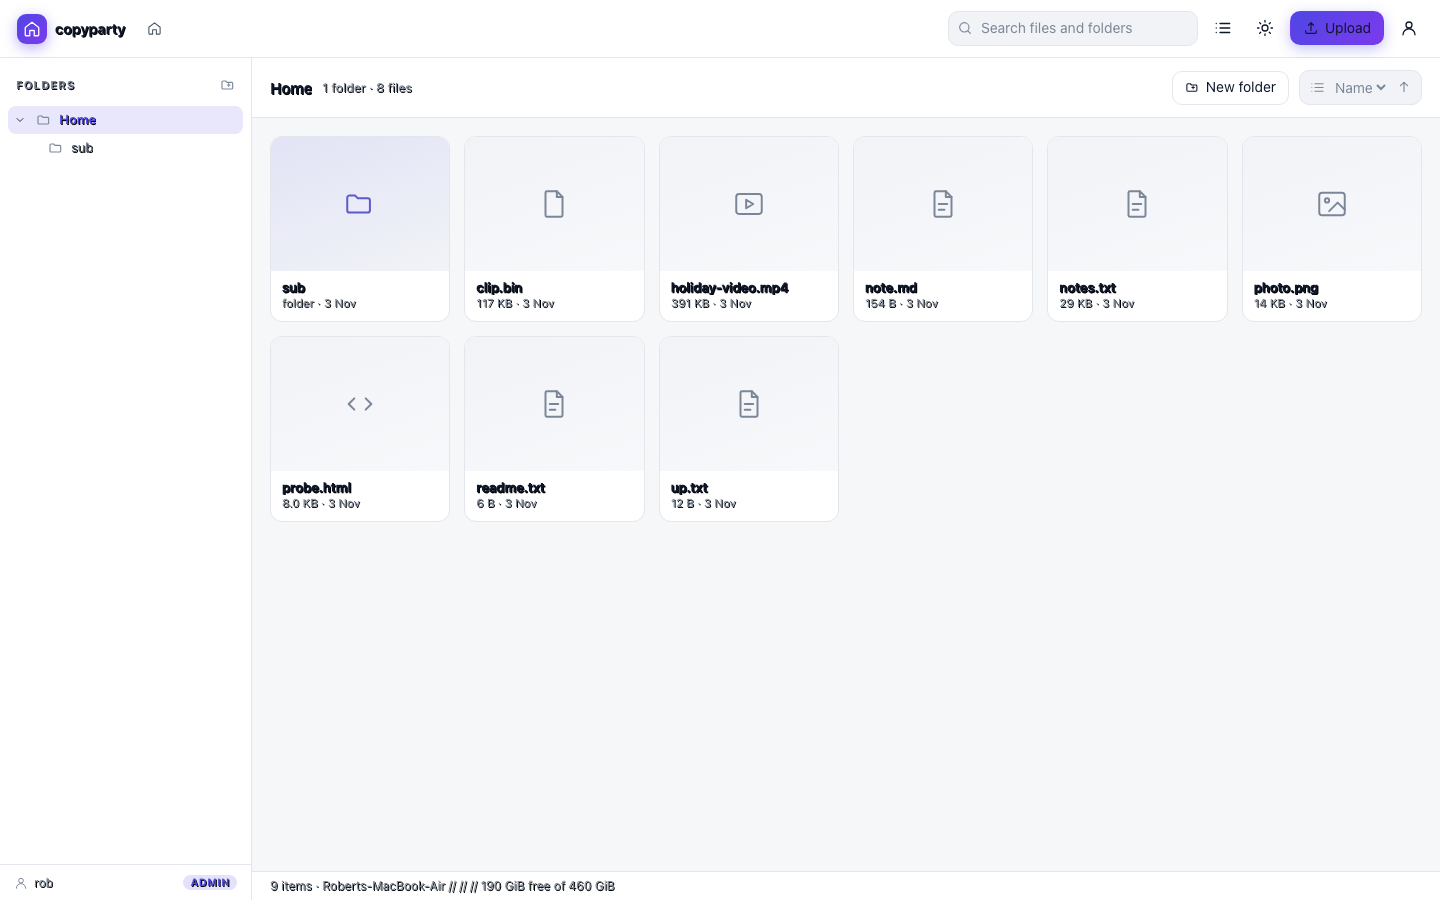
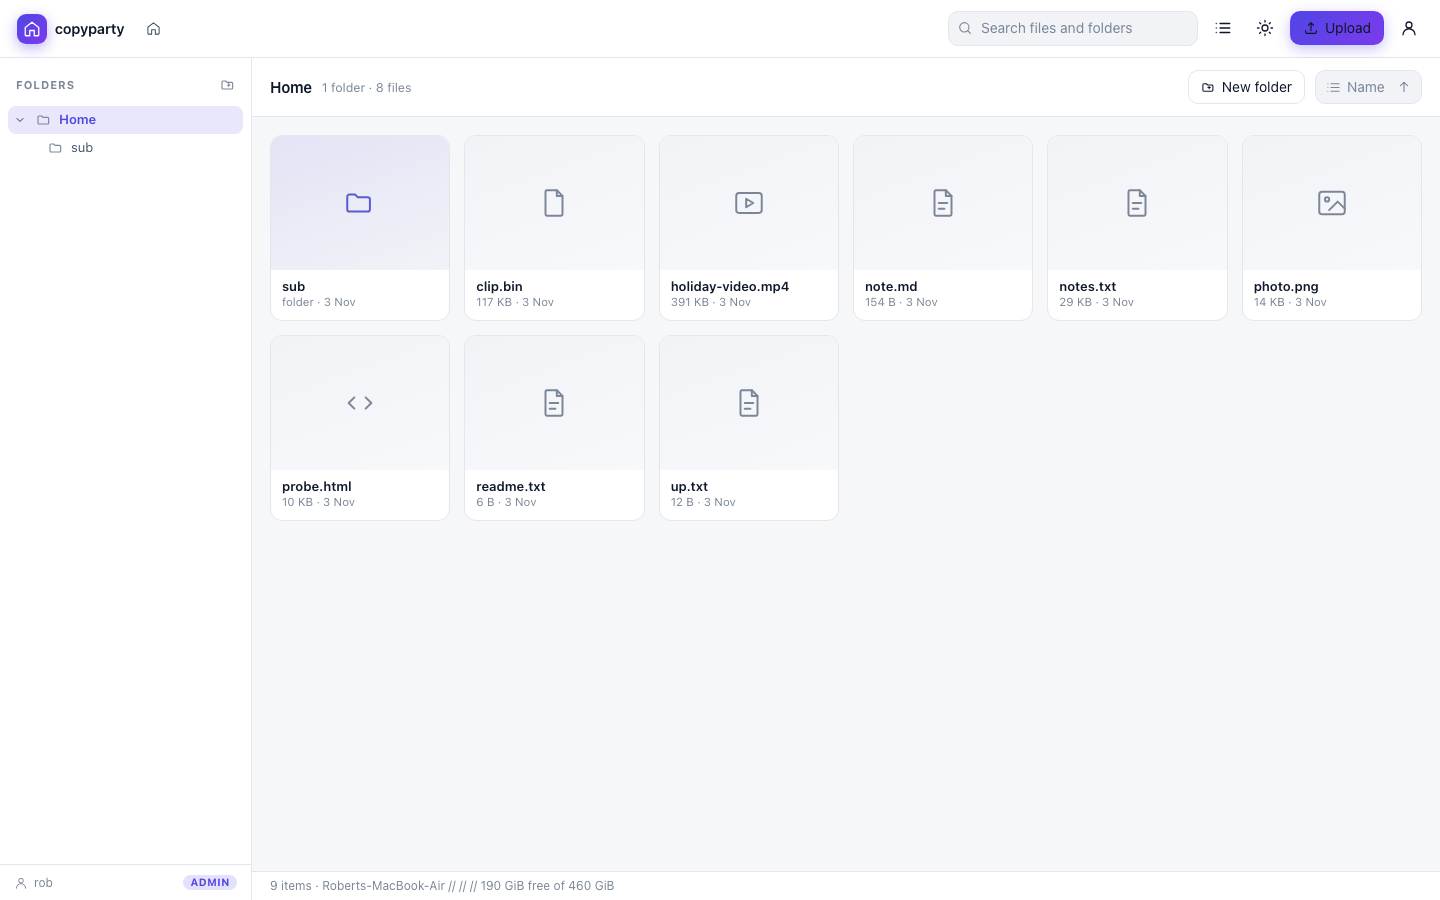
web: fix blurred text caused by an inherited text-shadow
copyparty's browser.css sets `text-shadow: 1px 1px 0 var(--bg-max)` on
<html>. text-shadow inherits, so every glyph in the modern ui was drawn with
a 1px offset copy behind it -- a white halo on dark themes and a dark halo on
light themes -- which made the whole interface look fuzzy and hard to read.

* reset text-shadow for the #cpm-root subtree (this ui uses none)
* normalise the non-standard font weights (520/550/560/650) to 500/600, which
  otherwise get synthesised and render muddy on many fonts
* set color-scheme per theme and `appearance: none` on the themed controls, so
  native widgets follow the palette
* keep the theme class on #cpm-root and apply it while the node is still
  detached, so the first paint is already in the right theme
* solid top bar instead of a translucent color-mix layer
* the search box is a plain text input, avoiding UA search-widget styling

regenerated the screenshots in docs/modern-ui/.

diff --git a/copyparty/web/ui/ui.css b/copyparty/web/ui/ui.css
@@ -22,9 +22,10 @@
 	--cpm-radius-sm: 8px;
 	--cpm-top: 58px;
 	--cpm-side: 252px;
+	color-scheme: light;
 }
 
-html.cpm-dark #cpm-root {
+#cpm-root.cpm-dark {
 	--cpm-accent: #7c8cff;
 	--cpm-accent-2: #a78bfa;
 	--cpm-accent-fg: #0b0d12;
@@ -38,6 +39,7 @@ html.cpm-dark #cpm-root {
 	--cpm-muted: #8b93a7;
 	--cpm-danger: #f87171;
 	--cpm-ok: #4ade80;
+	color-scheme: dark;
 }
 
 /* hide the classic filebrowser chrome while the modern ui is mounted */
@@ -54,6 +56,14 @@ html.cpm-active #ops,
 html.cpm-active .opview,
 html.cpm-active #widget {
 	display: none !important;
+}
+
+/* copyparty's classic stylesheet puts a 1px offset text-shadow on <html>, which
+   inherits into every element and shows up as a halo around our text; this UI
+   deliberately uses none, so drop it for the whole subtree */
+#cpm-root,
+#cpm-root * {
+	text-shadow: none;
 }
 
 html.cpm-active,
@@ -107,7 +117,7 @@ html.cpm-active body {
 	align-items: center;
 	gap: 10px;
 	padding: 0 14px;
-	background: color-mix(in srgb, var(--cpm-surface) 94%, transparent);
+	background: var(--cpm-surface);
 	border-bottom: 1px solid var(--cpm-border);
 	min-width: 0;
 }
@@ -118,7 +128,7 @@ html.cpm-active body {
 	gap: 8px;
 	text-decoration: none;
 	color: var(--cpm-fg);
-	font-weight: 650;
+	font-weight: 600;
 	letter-spacing: -0.01em;
 	white-space: nowrap;
 	padding-right: 4px;
@@ -199,6 +209,8 @@ html.cpm-active body {
 }
 
 .cpm-search input {
+	appearance: none;
+	-webkit-appearance: none;
 	width: 250px;
 	max-width: 34vw;
 	padding: 8px 30px 8px 32px;
@@ -266,7 +278,7 @@ html.cpm-active body {
 	cursor: pointer;
 	white-space: nowrap;
 	font-size: 13px;
-	font-weight: 550;
+	font-weight: 500;
 	transition: background 0.15s, border-color 0.15s, transform 0.08s;
 }
 
@@ -498,7 +510,7 @@ html.cpm-active body {
 }
 
 .cpm-tb-path {
-	font-weight: 650;
+	font-weight: 600;
 	font-size: 15px;
 	letter-spacing: -0.01em;
 	max-width: 46%;
@@ -531,6 +543,8 @@ html.cpm-active body {
 }
 
 .cpm-sort select {
+	appearance: none;
+	-webkit-appearance: none;
 	border: 0;
 	background: transparent;
 	outline: none;
@@ -671,7 +685,7 @@ html.cpm-active body {
 
 .cpm-name {
 	font-size: 13px;
-	font-weight: 560;
+	font-weight: 600;
 	overflow: hidden;
 	text-overflow: ellipsis;
 	white-space: nowrap;
@@ -734,7 +748,7 @@ html.cpm-active body {
 	text-align: left;
 	padding: 10px 14px;
 	font-size: 11.5px;
-	font-weight: 650;
+	font-weight: 600;
 	letter-spacing: 0.04em;
 	text-transform: uppercase;
 	color: var(--cpm-muted);
@@ -782,7 +796,7 @@ html.cpm-active body {
 
 .cpm-c-name {
 	color: var(--cpm-fg) !important;
-	font-weight: 520;
+	font-weight: 500;
 }
 
 .cpm-c-name .cpm-ico-wrap {
@@ -1098,6 +1112,8 @@ html.cpm-active body {
 }
 
 .cpm-field input {
+	appearance: none;
+	-webkit-appearance: none;
 	width: 100%;
 	padding: 9px 11px;
 	border-radius: 10px;

diff --git a/copyparty/web/ui/main.js b/copyparty/web/ui/main.js
@@ -100,7 +100,7 @@ const SHELL = `
 	<div class="cpm-actions">
 		<div class="cpm-search">
 			<span class="cpm-search-ico"></span>
-			<input id="cpm-q" type="search" placeholder="Search files and folders" autocomplete="off" spellcheck="false" />
+			<input id="cpm-q" type="text" role="searchbox" placeholder="Search files and folders" autocomplete="off" spellcheck="false" />
 			<button class="cpm-search-clear" data-act="clearq" title="Clear">${icon("close", 14)}</button>
 		</div>
 		<button class="cpm-icon-btn" data-act="view" id="cpm-view" title="Grid / list view"></button>
@@ -136,11 +136,13 @@ const SHELL = `
 
 function mount() {
 	const root = el("div", { id: "cpm-root", class: "cpm" }, SHELL);
+	// pick the palette before the node is attached, so the first paint is
+	// already in the right theme instead of transitioning from the default
+	applyTheme(store("theme") || "auto", root);
 	doc.body.appendChild(root);
 	doc.documentElement.classList.add("cpm-active");
 
 	if (state.view === "list") doc.documentElement.classList.add("cpm-view-list");
-	applyTheme(store("theme") || "auto");
 
 	const mark = qs(".cpm-brand-mark");
 	mark.innerHTML = icon("home", 18);
@@ -153,19 +155,19 @@ function mount() {
 
 /* --------------------------------------------------------------- theming */
 
-function applyTheme(t) {
+function applyTheme(t, elRoot) {
+	// keep the theme class on the ui root rather than on <html>: #cpm-root is a
+	// fixed, composited layer, and toggling a class above it leaves its form
+	// controls and icons painted with the previous theme in some browsers.
+	const root = elRoot || qs("#cpm-root") || doc.documentElement;
+	root.classList.remove("cpm-dark", "cpm-light");
 	if (t === "auto") {
-		doc.documentElement.classList.remove("cpm-dark", "cpm-light");
-		doc.documentElement.classList.add(
-			window.matchMedia && window.matchMedia("(prefers-color-scheme: dark)").matches
-				? "cpm-dark"
-				: "cpm-light"
-		);
+		const dark = window.matchMedia && window.matchMedia("(prefers-color-scheme: dark)").matches;
+		root.classList.add(dark ? "cpm-dark" : "cpm-light");
 	} else {
-		doc.documentElement.classList.remove("cpm-dark", "cpm-light");
-		doc.documentElement.classList.add("cpm-" + t);
+		root.classList.add("cpm-" + t);
 	}
-	const b = qs("#cpm-theme");
+	const b = root.querySelector ? root.querySelector("#cpm-theme") : null;
 	if (b) b.innerHTML = icon(t === "light" ? "sun" : "moon", 18);
 	store("theme", t);
 }
